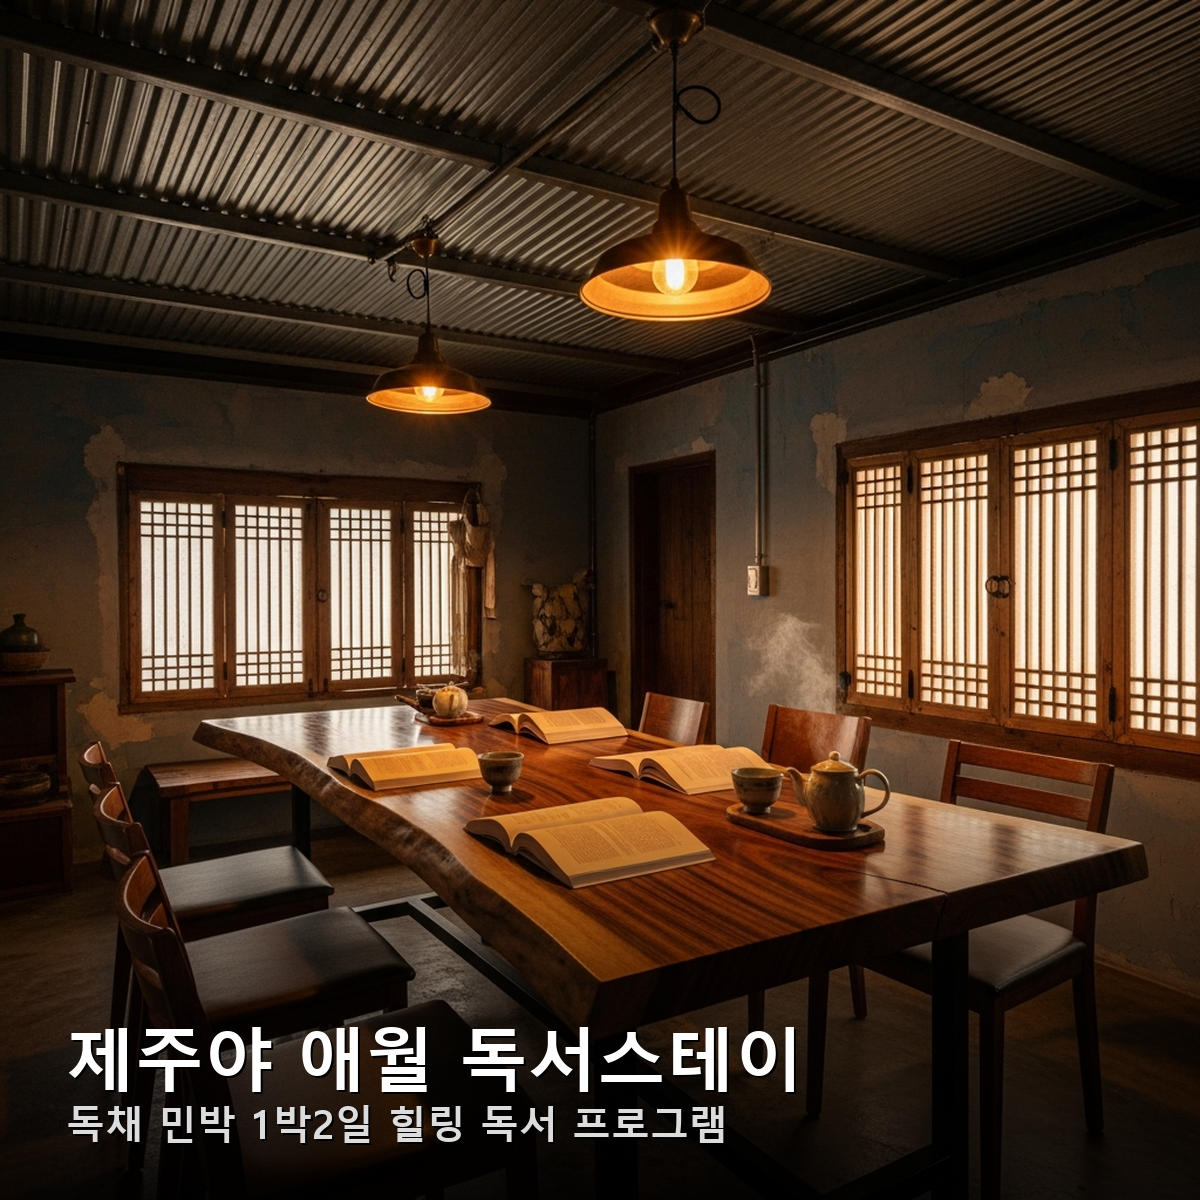
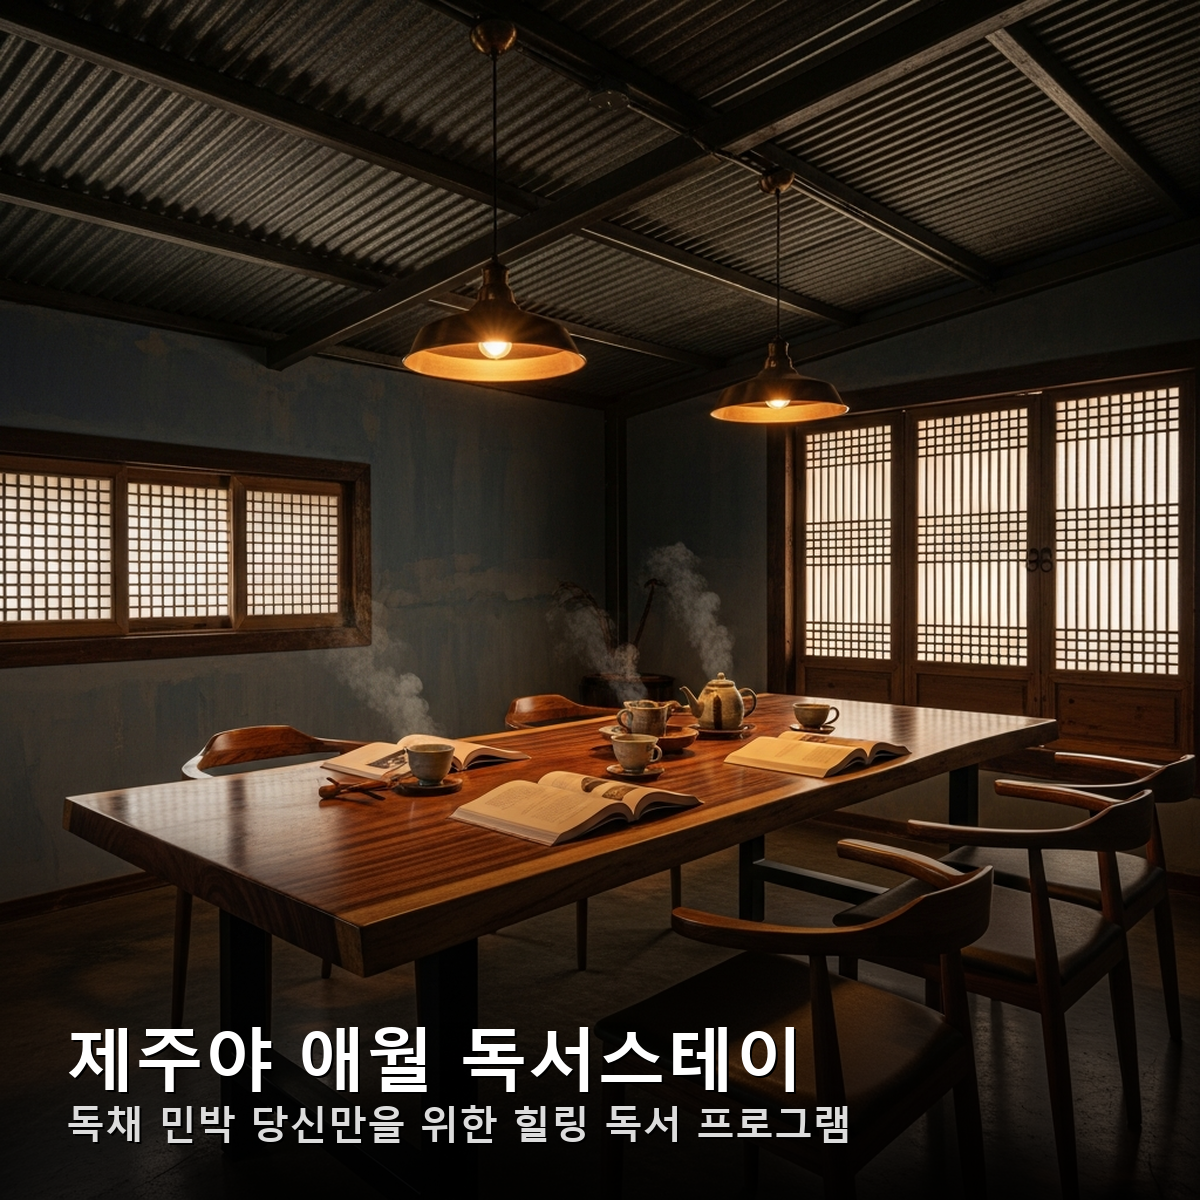
Update images 04, 10, 12: 텍스트 오버레이 수정
- 04: 서브카피 '1박2일' → '당신만을 위한 힐링 독서 프로그램'
- 10: 헤드라인 '단돈 6만원' → '단돈 8만원'
- 12: 헤드라인 '단 6자리 한정' → '단 8자리 한정'

diff --git a/generate_images.py b/generate_images.py
@@ -1,0 +1,287 @@
+import os
+import re
+import base64
+import time
+import io
+from pathlib import Path
+from dotenv import load_dotenv
+
+try:
+    import requests
+except ImportError:
+    print("오류: pip install requests")
+    exit(1)
+
+try:
+    from PIL import Image, ImageDraw, ImageFont
+except ImportError:
+    print("오류: pip install Pillow")
+    exit(1)
+
+# ─── 설정 ────────────────────────────────────────────────
+load_dotenv(dotenv_path=Path(__file__).parent / ".env")
+api_key = os.getenv("GEMINI_API_KEY")
+if not api_key:
+    print("오류: .env 파일에서 GEMINI_API_KEY를 찾을 수 없습니다.")
+    exit(1)
+
+ENDPOINT = (
+    "https://generativelanguage.googleapis.com/v1beta/models/"
+    f"imagen-4.0-generate-001:predict?key={api_key}"
+)
+
+TARGET_SIZE = (1200, 1200)
+
+# 전체 프롬프트에 추가할 실사풍 접두사
+PHOTO_PREFIX = (
+    "Ultra-realistic professional photograph, shot on full-frame DSLR camera, "
+    "cinematic natural lighting, sharp focus, no CGI, no illustration, no cartoon, "
+    "no 3D render, real photograph, "
+)
+
+# 전체 이미지에 적용할 공통 네거티브 프롬프트
+COMMON_NEGATIVE = (
+    "cartoon, illustration, CGI, 3D render, animation, painting, drawing, anime, "
+    "sketch, watercolor, digital art, unrealistic, low quality, blurry, distorted, "
+    "watermark, logo, oversaturated, plastic, fake"
+)
+
+# Windows 한글 폰트 경로
+FONT_PATHS = [
+    "C:/Windows/Fonts/malgunbd.ttf",   # 맑은 고딕 Bold
+    "C:/Windows/Fonts/malgun.ttf",     # 맑은 고딕
+    "C:/Windows/Fonts/gulim.ttc",      # 굴림
+]
+
+# ─── 각 이미지별 한국어 카피 ─────────────────────────────
+COPY = {
+    "01": {
+        "headline": "지금, 당신은 괜찮으신가요?",
+        "sub":      "번아웃이 조용히 당신을 잠식하고 있습니다",
+    },
+    "02": {
+        "headline": "주말에도 쉬지 못하나요?",
+        "sub":      "멈출 수 없는 악순환에서 벗어날 시간입니다",
+    },
+    "03": {
+        "headline": "빛이 있는 곳으로",
+        "sub":      "제주 애월에서 시작되는 나만의 회복",
+    },
+    "04": {
+        "headline": "제주야 애월 독서스테이",
+        "sub":      "독채 민박 당신만을 위한 힐링 독서 프로그램",
+    },
+    "05": {
+        "headline": "4가지 힐링 프로그램",
+        "sub":      "싱잉볼 명상 · 계절 식탁 · 새벽 산책 · 독서노트",
+    },
+    "06": {
+        "headline": "단 하룻밤이 모든 것을 바꿉니다",
+        "sub":      "소진된 나  →  회복된 나",
+    },
+    "07": {
+        "headline": "이미 다녀온 분들의 이야기",
+        "sub":      "\"정말 다시 오고 싶어요\"  — 참가자 후기",
+    },
+    "08": {
+        "headline": "프로그램 구성",
+        "sub":      "금요일 저녁 6시 ~ 토요일 낮 12시 · 최대 6명",
+    },
+    "09": {
+        "headline": "걱정은 내려두세요",
+        "sub":      "자주 묻는 모든 질문에 답해드립니다",
+    },
+    "10": {
+        "headline": "단돈 8만원",
+        "sub":      "숙박 · 식사 · 명상 · 산책 · 독서 모두 포함",
+    },
+    "11": {
+        "headline": "100% 만족 보장",
+        "sub":      "마음에 들지 않으면 전액 환불해 드립니다",
+    },
+    "12": {
+        "headline": "단 8자리 한정",
+        "sub":      "마지막 1자리 남았습니다 · 지금 바로 신청하세요",
+    },
+    "13": {
+        "headline": "당신도 이렇게 될 수 있습니다",
+        "sub":      "지금 바로 신청하기  →",
+    },
+}
+
+
+# ─── 유틸 함수 ───────────────────────────────────────────
+def get_font(size: int):
+    for path in FONT_PATHS:
+        if Path(path).exists():
+            try:
+                return ImageFont.truetype(path, size)
+            except Exception:
+                continue
+    return ImageFont.load_default()
+
+
+def add_text_overlay(img: Image.Image, image_num: str) -> Image.Image:
+    """이미지 하단에 반투명 그라디언트 + 한국어 카피 텍스트를 오버레이한다."""
+    copy = COPY.get(image_num, {})
+    headline = copy.get("headline", "")
+    sub      = copy.get("sub", "")
+    if not headline:
+        return img
+
+    w, h = img.size
+    overlay = img.copy().convert("RGBA")
+
+    # ── 하단 그라디언트 오버레이 ──────────────────────────
+    gradient_h = int(h * 0.38)        # 하단 38% 영역
+    gradient = Image.new("RGBA", (w, gradient_h), (0, 0, 0, 0))
+    draw_grad = ImageDraw.Draw(gradient)
+    for y in range(gradient_h):
+        alpha = int(210 * (y / gradient_h))   # 위→아래로 점점 진하게
+        draw_grad.line([(0, y), (w, y)], fill=(0, 0, 0, alpha))
+
+    overlay.paste(gradient, (0, h - gradient_h), gradient)
+
+    # ── 텍스트 그리기 ─────────────────────────────────────
+    draw = ImageDraw.Draw(overlay)
+
+    headline_size = int(w * 0.058)    # 약 70px (1200px 기준)
+    sub_size      = int(w * 0.033)    # 약 40px
+
+    font_headline = get_font(headline_size)
+    font_sub      = get_font(sub_size)
+
+    padding     = int(w * 0.055)      # 좌우·하단 여백
+    line_gap    = int(h * 0.018)      # 헤드라인↔서브 간격
+
+    # 서브텍스트 위치 (하단에서 padding 위)
+    sub_bbox = draw.textbbox((0, 0), sub, font=font_sub)
+    sub_h = sub_bbox[3] - sub_bbox[1]
+    sub_y = h - padding - sub_h
+
+    # 헤드라인 위치 (서브텍스트 위)
+    hl_bbox = draw.textbbox((0, 0), headline, font=font_headline)
+    hl_h = hl_bbox[3] - hl_bbox[1]
+    hl_y = sub_y - line_gap - hl_h
+
+    # 텍스트 그림자 (가독성 향상)
+    shadow_offset = 2
+    draw.text((padding + shadow_offset, hl_y + shadow_offset), headline,
+              font=font_headline, fill=(0, 0, 0, 160))
+    draw.text((padding + shadow_offset, sub_y + shadow_offset), sub,
+              font=font_sub, fill=(0, 0, 0, 140))
+
+    # 본문 텍스트
+    draw.text((padding, hl_y), headline, font=font_headline, fill=(255, 255, 255, 255))
+    draw.text((padding, sub_y), sub,      font=font_sub,      fill=(220, 220, 220, 230))
+
+    return overlay.convert("RGB")
+
+
+def generate_image(prompt: str, negative: str, image_num: str,
+                   output_dir: Path, max_retries: int = 3) -> bool:
+    output_path = output_dir / f"image_{image_num}.png"
+
+    full_prompt   = PHOTO_PREFIX + prompt
+    full_negative = COMMON_NEGATIVE + (", " + negative if negative else "")
+
+    payload = {
+        "instances": [{"prompt": full_prompt, "negativePrompt": full_negative}],
+        "parameters": {"sampleCount": 1, "aspectRatio": "1:1"},
+    }
+
+    for attempt in range(1, max_retries + 1):
+        try:
+            print(f"  [시도 {attempt}/{max_retries}] API 호출 중...")
+            response = requests.post(ENDPOINT, json=payload, timeout=90)
+            data = response.json()
+
+            if "error" in data:
+                msg = data["error"].get("message", str(data["error"]))
+                print(f"  API 오류: {msg}")
+                if attempt < max_retries:
+                    time.sleep(5)
+                continue
+
+            b64      = data["predictions"][0]["bytesBase64Encoded"]
+            img_bytes = base64.b64decode(b64)
+
+            # 1200x1200 리사이즈
+            img = Image.open(io.BytesIO(img_bytes))
+            img = img.resize(TARGET_SIZE, Image.LANCZOS)
+
+            # 한국어 텍스트 오버레이
+            img = add_text_overlay(img, image_num)
+
+            img.save(output_path, "PNG")
+            print(f"  저장 완료: {output_path} ({TARGET_SIZE[0]}x{TARGET_SIZE[1]}px, 텍스트 오버레이 포함)")
+            return True
+
+        except Exception as e:
+            print(f"  예외 발생: {e}")
+            if attempt < max_retries:
+                time.sleep(5)
+
+    print(f"  실패: {max_retries}회 모두 실패")
+    return False
+
+
+def parse_prompts(prompts_file: Path) -> list:
+    content  = prompts_file.read_text(encoding="utf-8")
+    sections = re.split(r"(?=## 이미지 \d+)", content)
+    results  = []
+
+    for section in sections:
+        if "## 이미지" not in section:
+            continue
+
+        num_match = re.search(r"## 이미지 (\d+)", section)
+        if not num_match:
+            continue
+        num = num_match.group(1).zfill(2)
+
+        prompt_match = re.search(r"```\n(.*?)\n```", section, re.DOTALL)
+        prompt = prompt_match.group(1).strip() if prompt_match else ""
+
+        neg_match = re.search(r"\*\*네거티브 프롬프트\*\*:\s*(.+)", section)
+        negative  = neg_match.group(1).strip() if neg_match else ""
+
+        results.append((num, prompt, negative))
+
+    return results
+
+
+# ─── 메인 ────────────────────────────────────────────────
+if __name__ == "__main__":
+    output_dir = Path("output")
+    output_dir.mkdir(exist_ok=True)
+
+    prompts_file = Path("prompts.md")
+    if not prompts_file.exists():
+        print("오류: prompts.md가 없습니다.")
+        exit(1)
+
+    prompts = parse_prompts(prompts_file)
+    if not prompts:
+        print("오류: prompts.md에서 프롬프트를 파싱할 수 없습니다.")
+        exit(1)
+
+    print(f"총 {len(prompts)}개 프롬프트 로드 완료")
+    print(f"출력 크기: {TARGET_SIZE[0]}x{TARGET_SIZE[1]}px · 한국어 텍스트 오버레이 포함\n")
+
+    failed = []
+    for i, (num, prompt, negative) in enumerate(prompts, 1):
+        print(f"[{i}/{len(prompts)}] 이미지 {num} 생성 중...")
+        success = generate_image(prompt, negative, num, output_dir)
+        if not success:
+            failed.append(num)
+        if i < len(prompts):
+            time.sleep(3)
+
+    print(f"\n=== 생성 완료 ===")
+    print(f"성공: {len(prompts) - len(failed)}/{len(prompts)}개")
+    if failed:
+        print(f"실패한 이미지: {', '.join(failed)}")
+    else:
+        print("모든 이미지 생성 성공!")
+        print(f"저장 위치: {output_dir.resolve()}")
